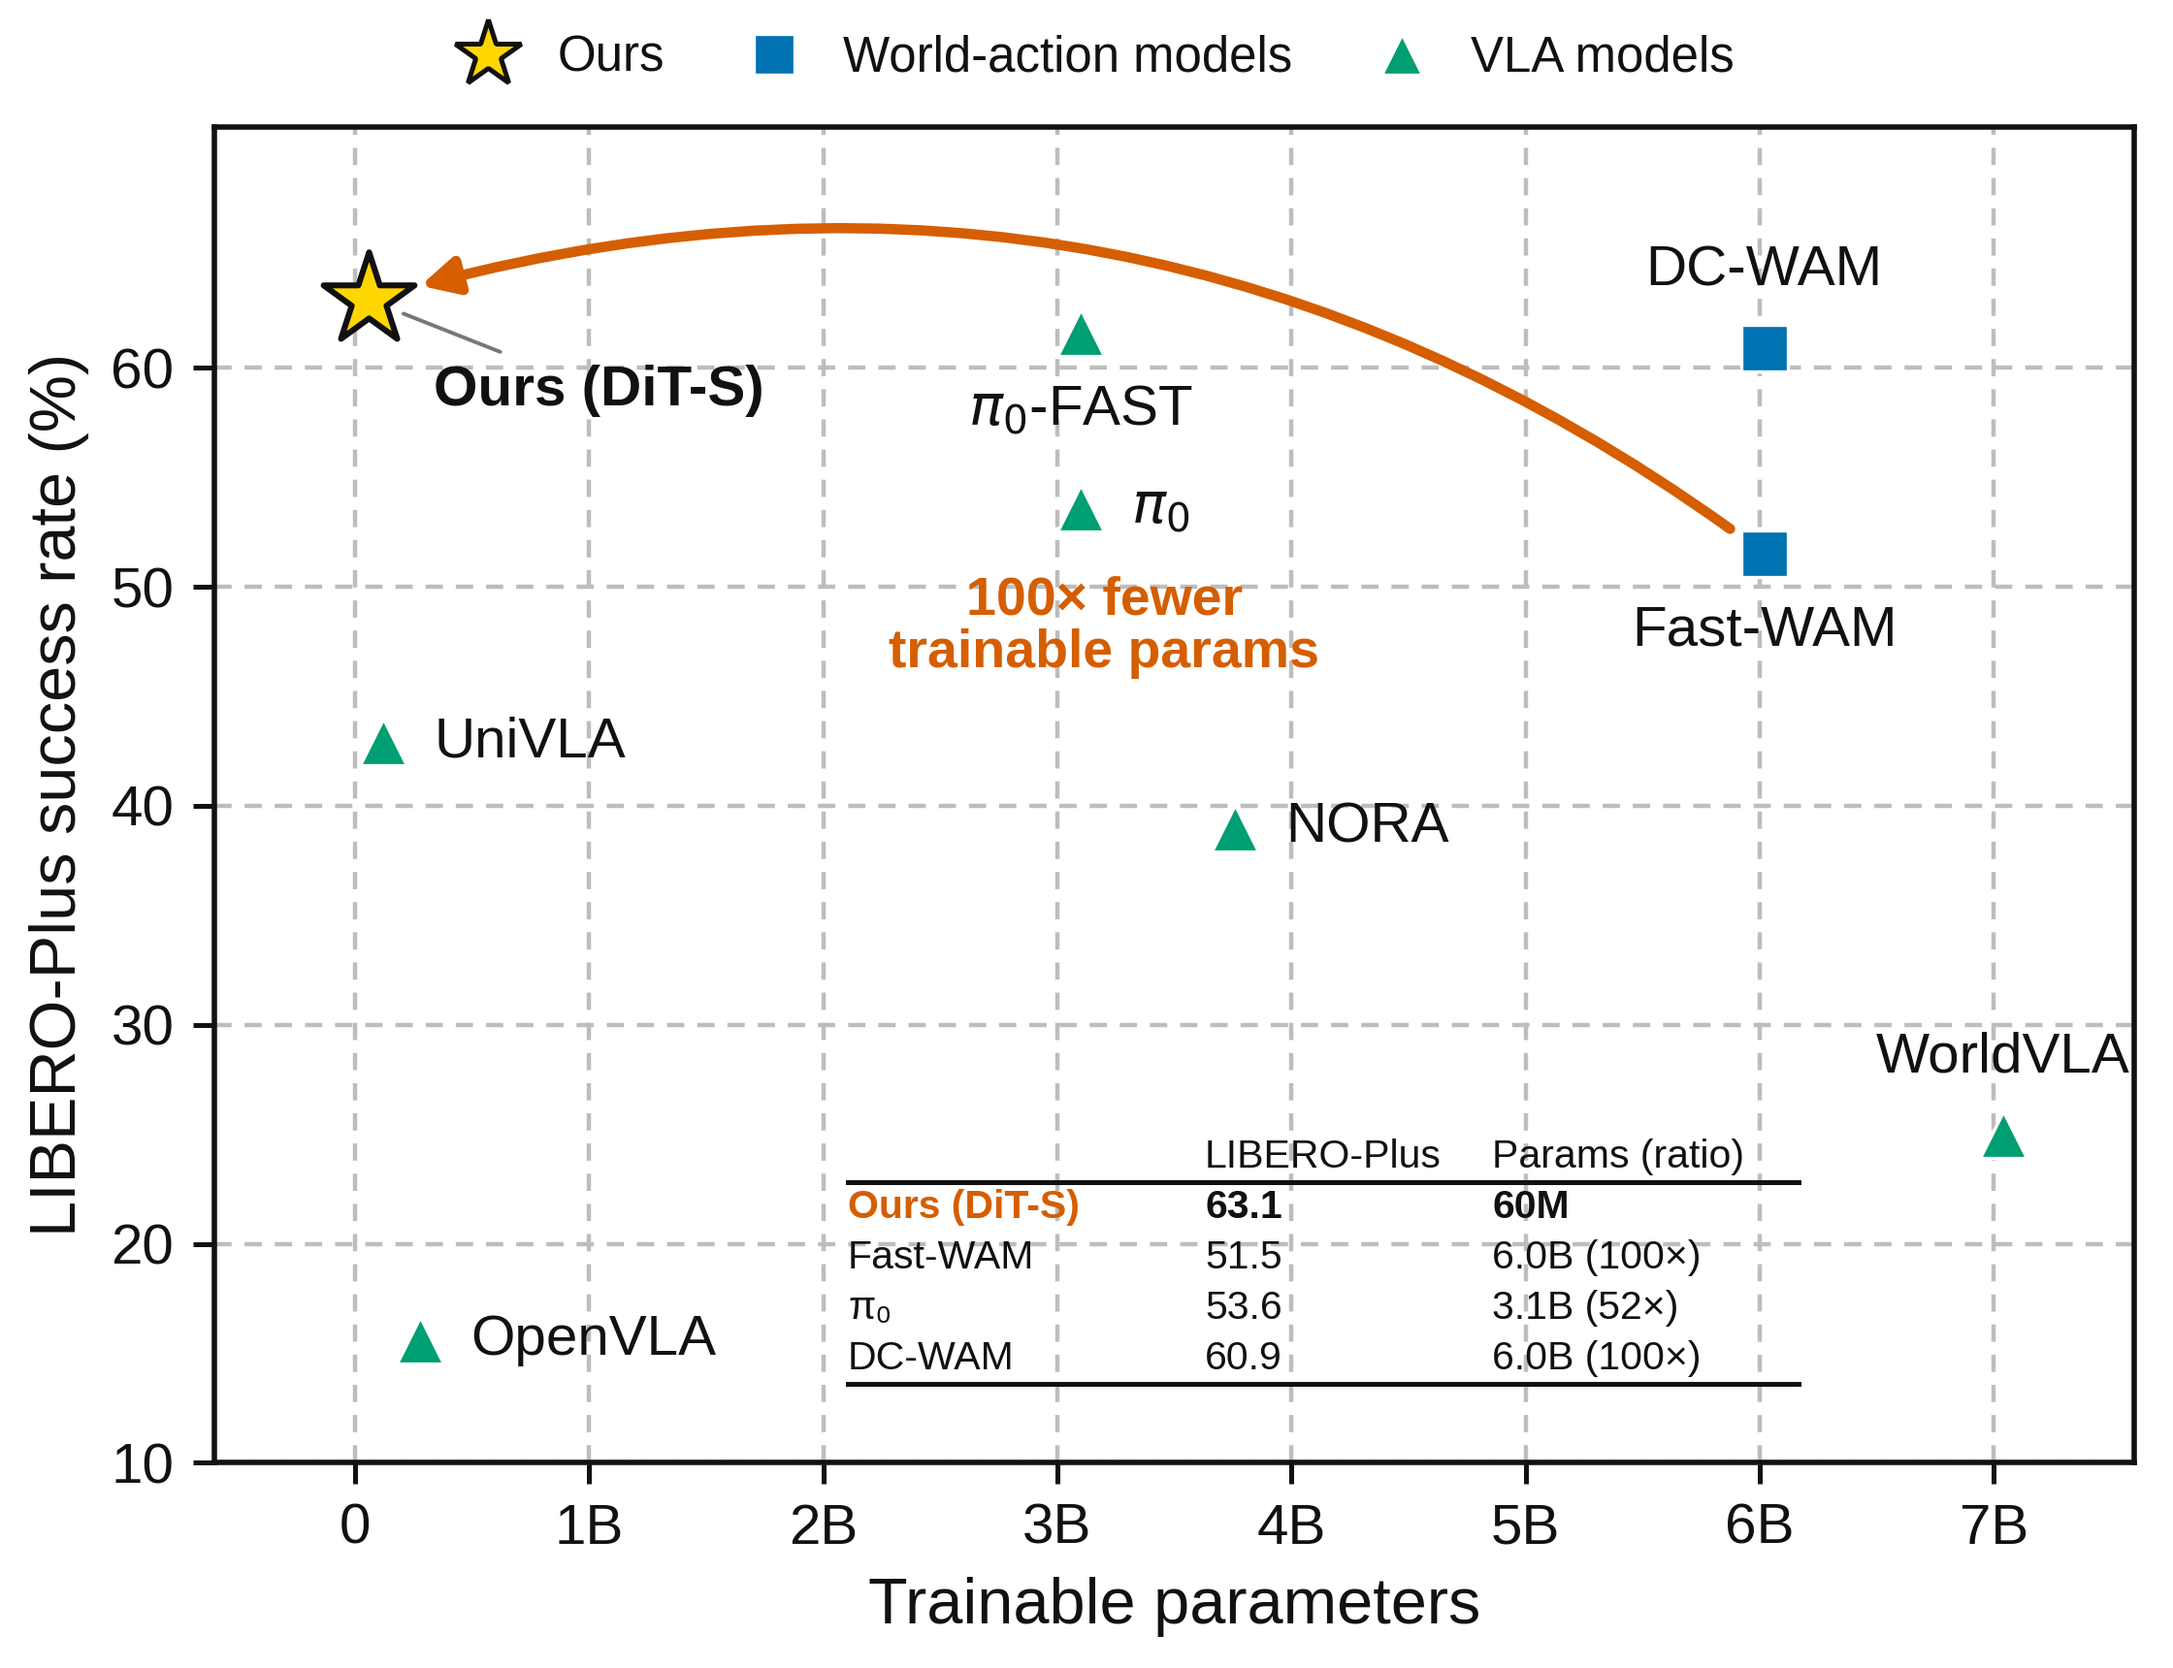
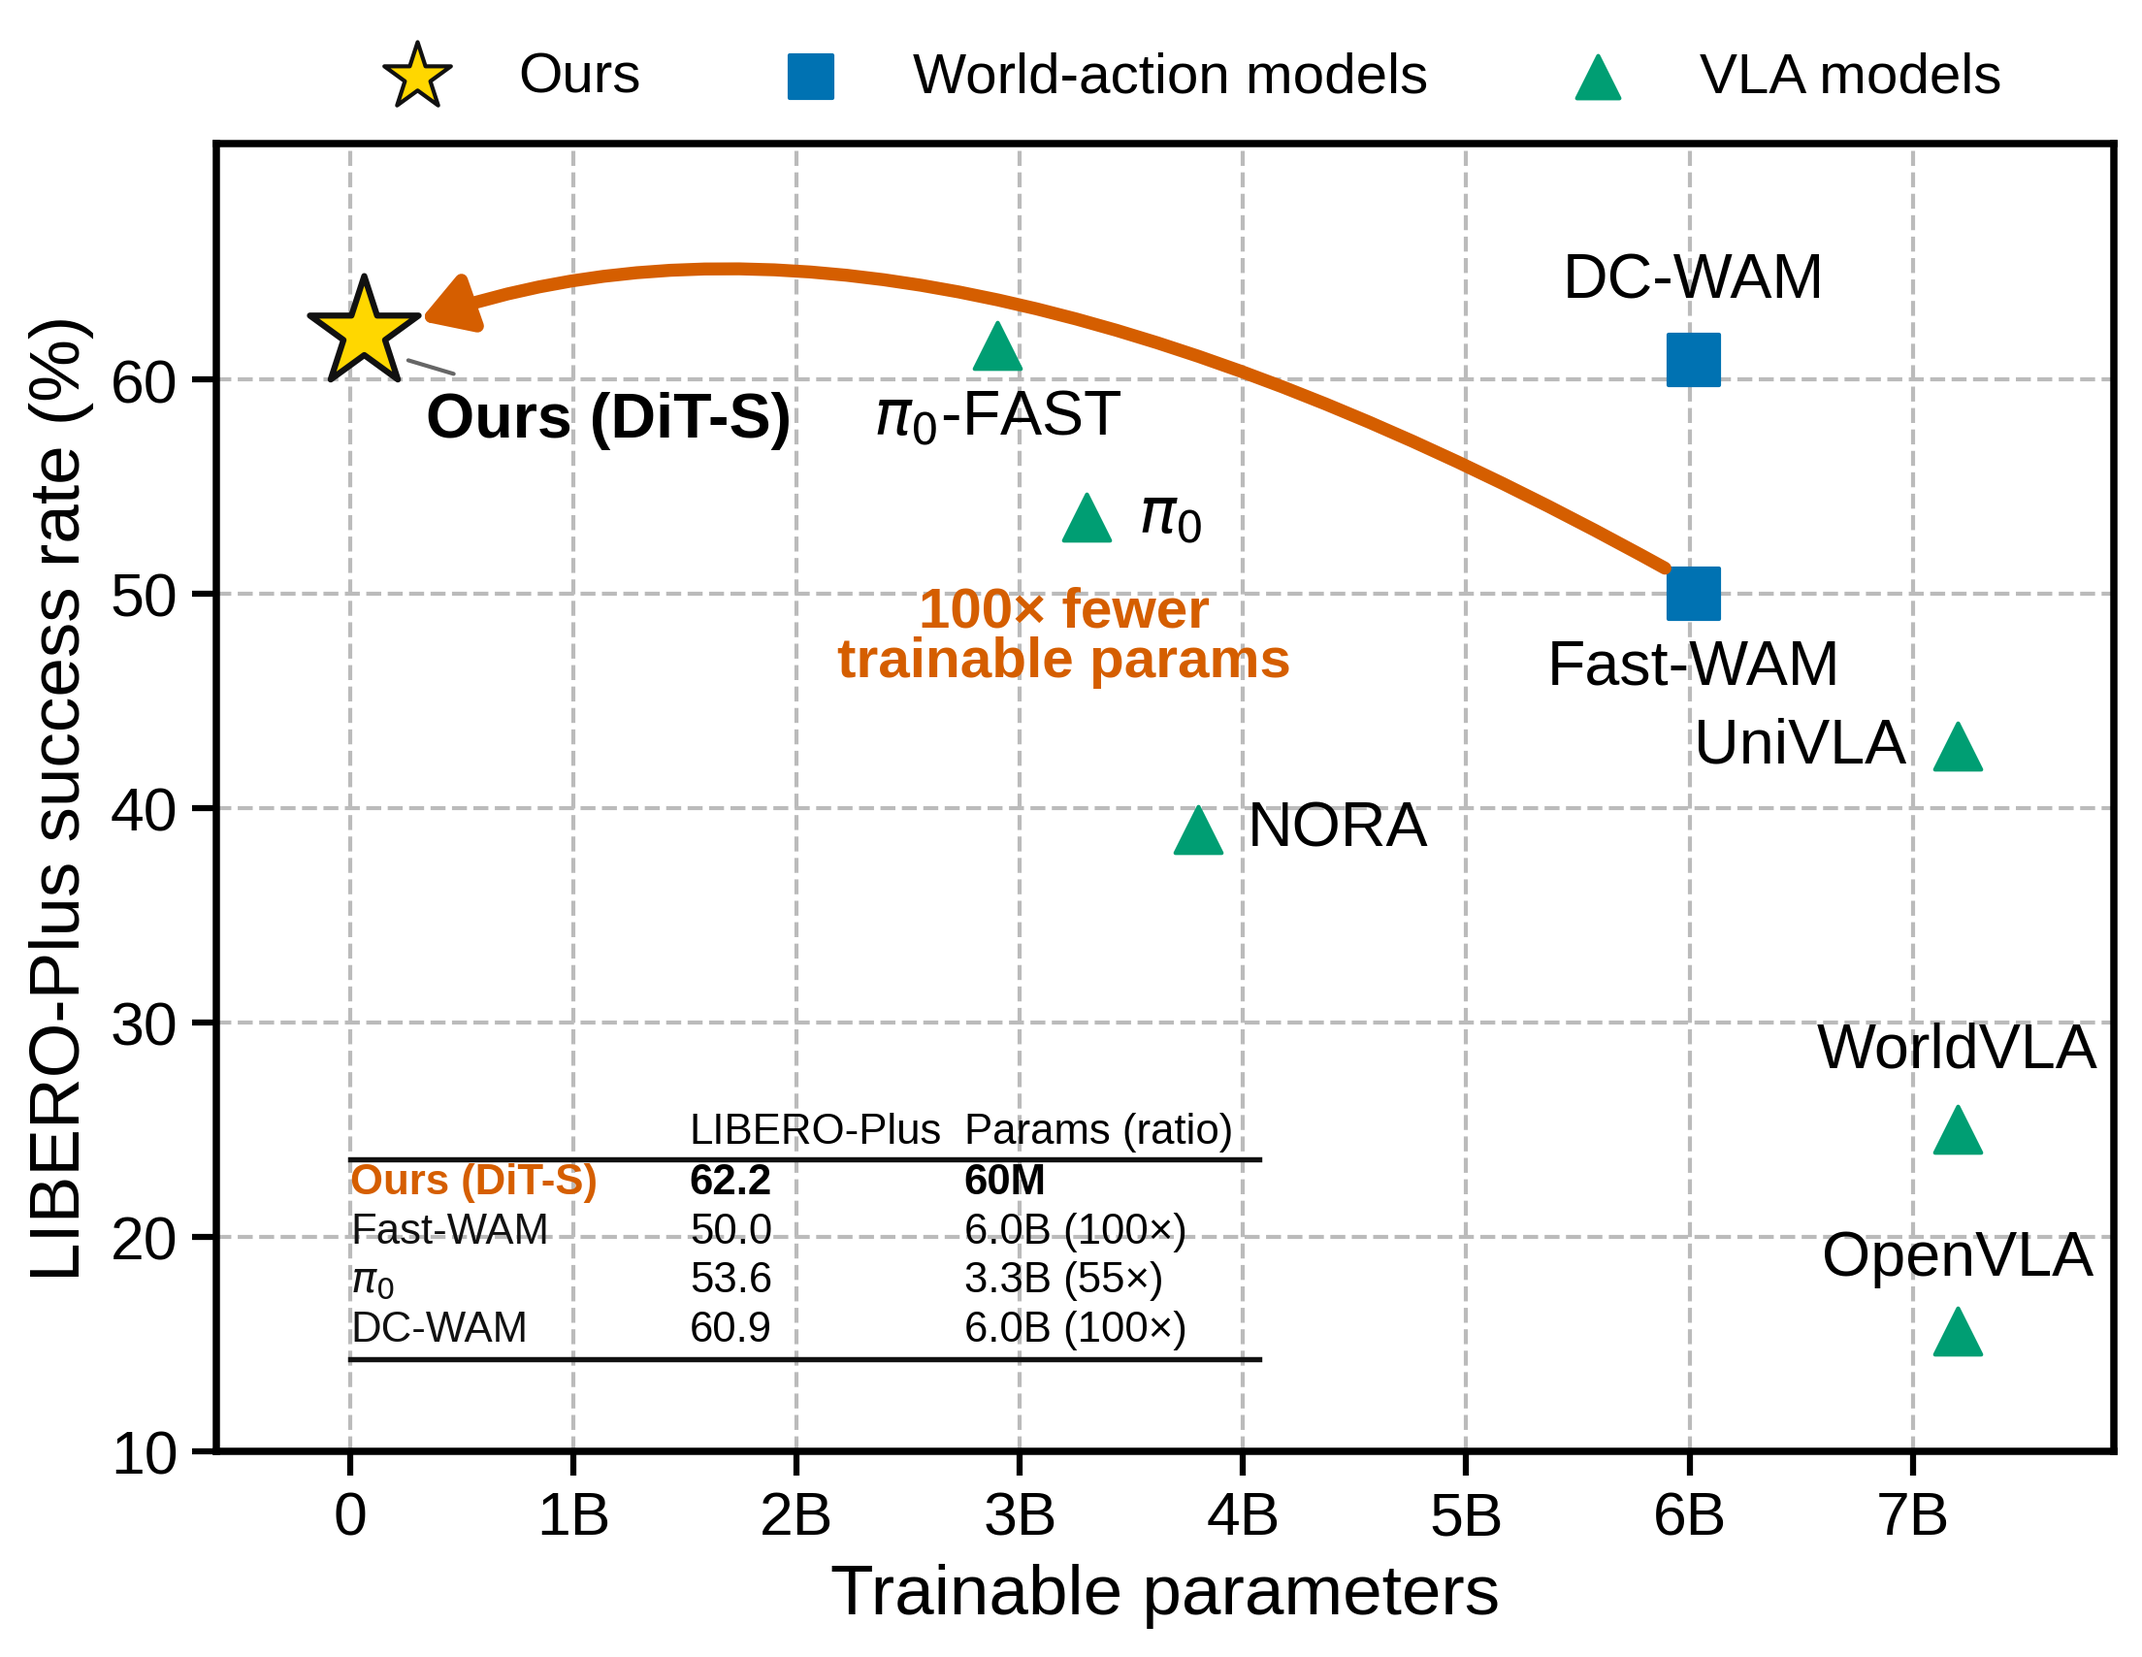
Update LIBERO / LIBERO-Plus figures and LIBERO-Plus result (62.2)

diff --git a/README.md b/README.md
@@ -23,14 +23,14 @@ This repository contains the training and evaluation code on LIBERO, LIBERO-Plus
 - 💻 **Single-GPU training.** The actualizer trains on cached V-JEPA latents with 32 GB peak memory; LIBERO takes about
   15 hours on one GPU, with no embodied pretraining.
 - ⚡ **39 ms inference.** The encoder runs once per observation and only the actualizer runs the denoising steps. It runs at over 25 Hz on an RTX A6000.
-- 🌍 **Robust generalization.** 98.0% average success on LIBERO, 63.1% on LIBERO-Plus, 5 real-world tasks on a FANUC CRX-10iA arm and a Unitree G1 humanoid with Dex3-1 hands. It consistently outperforms baselines like Fast-WAM and π0.5 that have the billion-parameter backbones.
+- 🌍 **Robust generalization.** 98.0% average success on LIBERO, 62.2% on LIBERO-Plus, 5 real-world tasks on a FANUC CRX-10iA arm and a Unitree G1 humanoid with Dex3-1 hands. It consistently outperforms baselines like Fast-WAM and π0.5 that have the billion-parameter backbones.
 
 ## Results
 
 | Benchmark | Checkpoint | Inference | Success (%) | Eval config |
 |---|---|---|---|---|
 | LIBERO (4 suites x 10 tasks x 50) | DiT-S, step 173580 | 4 steps, no CFG | 98.00 | `eval_libero_dits` |
-| LIBERO-Plus (10,030 tasks x 1) | DiT-S, step 173580 | 4 steps, action text-CFG 1.5 | 63.1 | `eval_libero_plus_dits` |
+| LIBERO-Plus (10,030 tasks x 1) | DiT-S, step 173580 | 4 steps, action text-CFG 1.5 | 62.2 | `eval_libero_plus_dits` |
 | LIBERO-Plus (10,030 tasks x 1) | DiT-B, step 130185 | 4 steps, action text-CFG 1.5 | 65.0 | `eval_libero_plus_ditb` |
 | RoboTwin 2.0 (50 tasks x clean/randomized x 25) | DiT-S fp32, step 176540 | 10 steps, no CFG, fp32 | 58.84 | `eval_robotwin_dits` |
 
